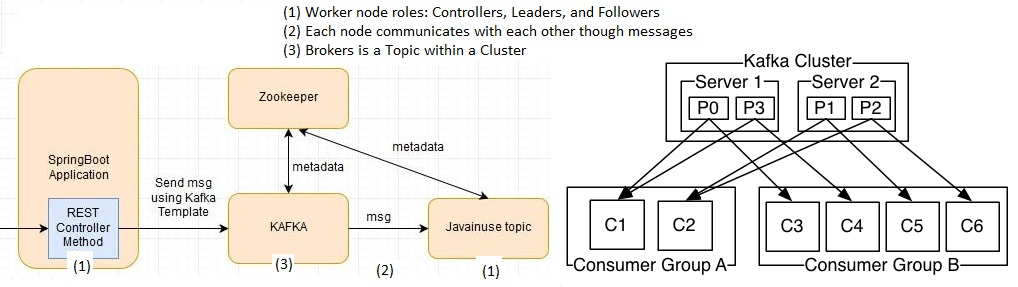
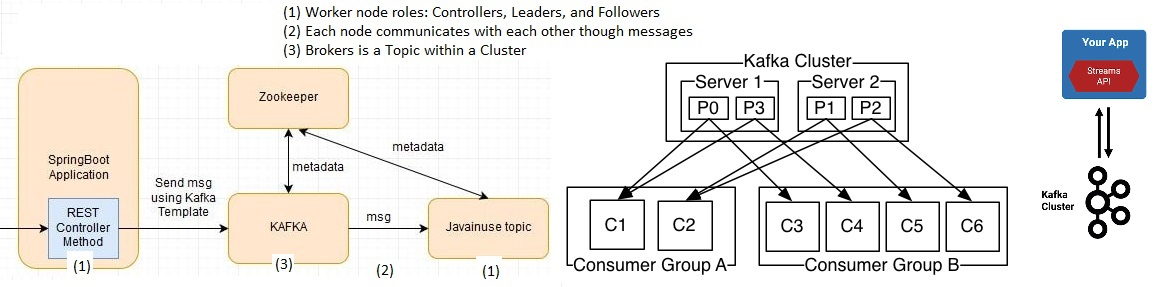
Kafka

diff --git a/Kafka/eksempel-app/src/main/java/no/agitec/fagaften/eksempelapp/WordCountApplication.java b/Kafka/eksempel-app/src/main/java/no/agitec/fagaften/eksempelapp/WordCountApplication.java
@@ -1,0 +1,35 @@
+package no.agitec.fagaften.eksempelapp;
+
+import org.apache.kafka.common.serialization.Serdes;
+import org.apache.kafka.common.utils.Bytes;
+import org.apache.kafka.streams.KafkaStreams;
+import org.apache.kafka.streams.StreamsBuilder;
+import org.apache.kafka.streams.StreamsConfig;
+import org.apache.kafka.streams.kstream.KStream;
+import org.apache.kafka.streams.kstream.KTable;
+import org.apache.kafka.streams.kstream.Materialized;
+import org.apache.kafka.streams.kstream.Produced;
+import org.apache.kafka.streams.state.KeyValueStore;
+
+import java.util.Arrays;
+import java.util.Properties;
+
+public class WordCountApplication {
+    Properties props = new Properties();
+    props.put(StreamsConfig.APPLICATION_ID_CONFIG, "wordcount-application");
+    props.put(StreamsConfig.BOOTSTRAP_SERVERS_CONFIG, "kafka-broker1:9092");
+    props.put(StreamsConfig.DEFAULT_KEY_SERDE_CLASS_CONFIG, Serdes.String().getClass());
+    props.put(StreamsConfig.DEFAULT_VALUE_SERDE_CLASS_CONFIG, Serdes.String().getClass());
+
+    StreamsBuilder builder = new StreamsBuilder();
+    KStream<String, String> textLines = builder.stream("TextLinesTopic");
+    KTable<String, Long> wordCounts = textLines
+            .flatMapValues(textLine -> Arrays.asList(textLine.toLowerCase().split("\\W+")))
+            .groupBy((key, word) -> word)
+            .count(Materialized.<String, Long, KeyValueStore<Bytes, byte[]>>as("counts-store"));
+        wordCounts.toStream().to("WordsWithCountsTopic",Produced.with(Serdes.String(), Serdes.Long()));
+
+    KafkaStreams streams = new KafkaStreams(builder.build(), props);
+        streams.start();
+
+}

diff --git a/Kafka/eksempel-app/Kafka-demo.md b/Kafka/eksempel-app/Kafka-demo.md
@@ -197,3 +197,4 @@ kafka_2.12-2.5.0> bin/connect-standalone.sh config/connect-standalone.properties
 
 - Kafka Streams is a client library for building mission-critical real-time applications and microservices, where the input and/or output data is stored in Kafka clusters. 
 - Kafka Streams combines the simplicity of writing and deploying standard Java and Scala applications on the client side with the benefits of Kafka's server-side cluster technology to  make these applications highly scalable, elastic, fault-tolerant, distributed, and much more. 
+- The Kafka Treams API transforms and enriches data 
